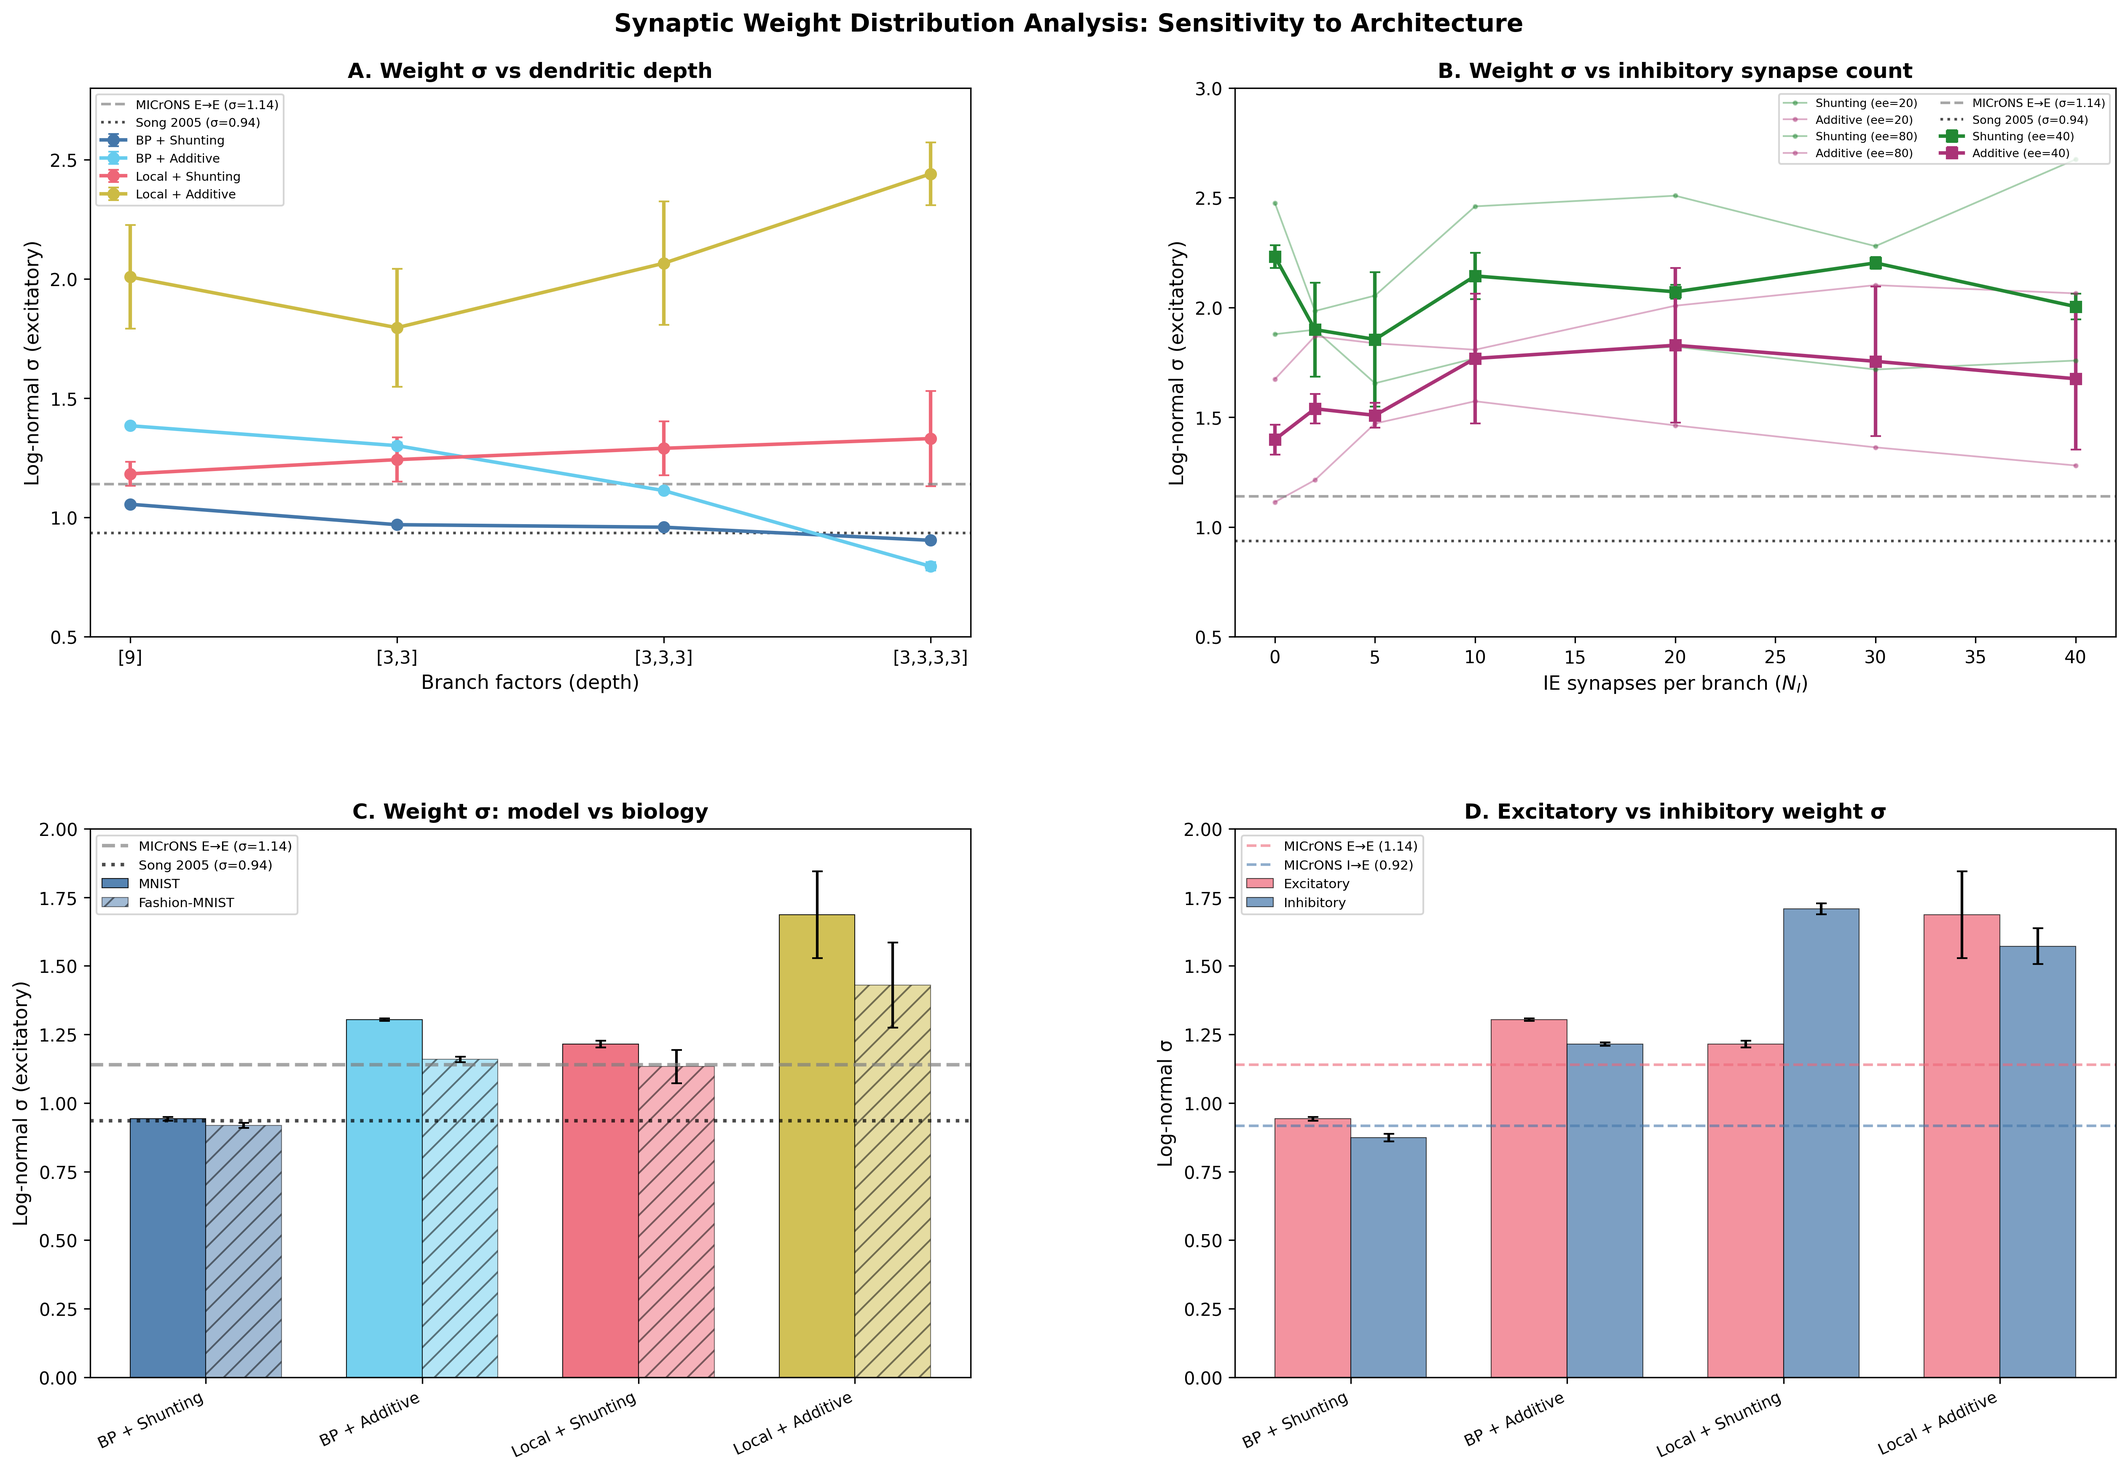
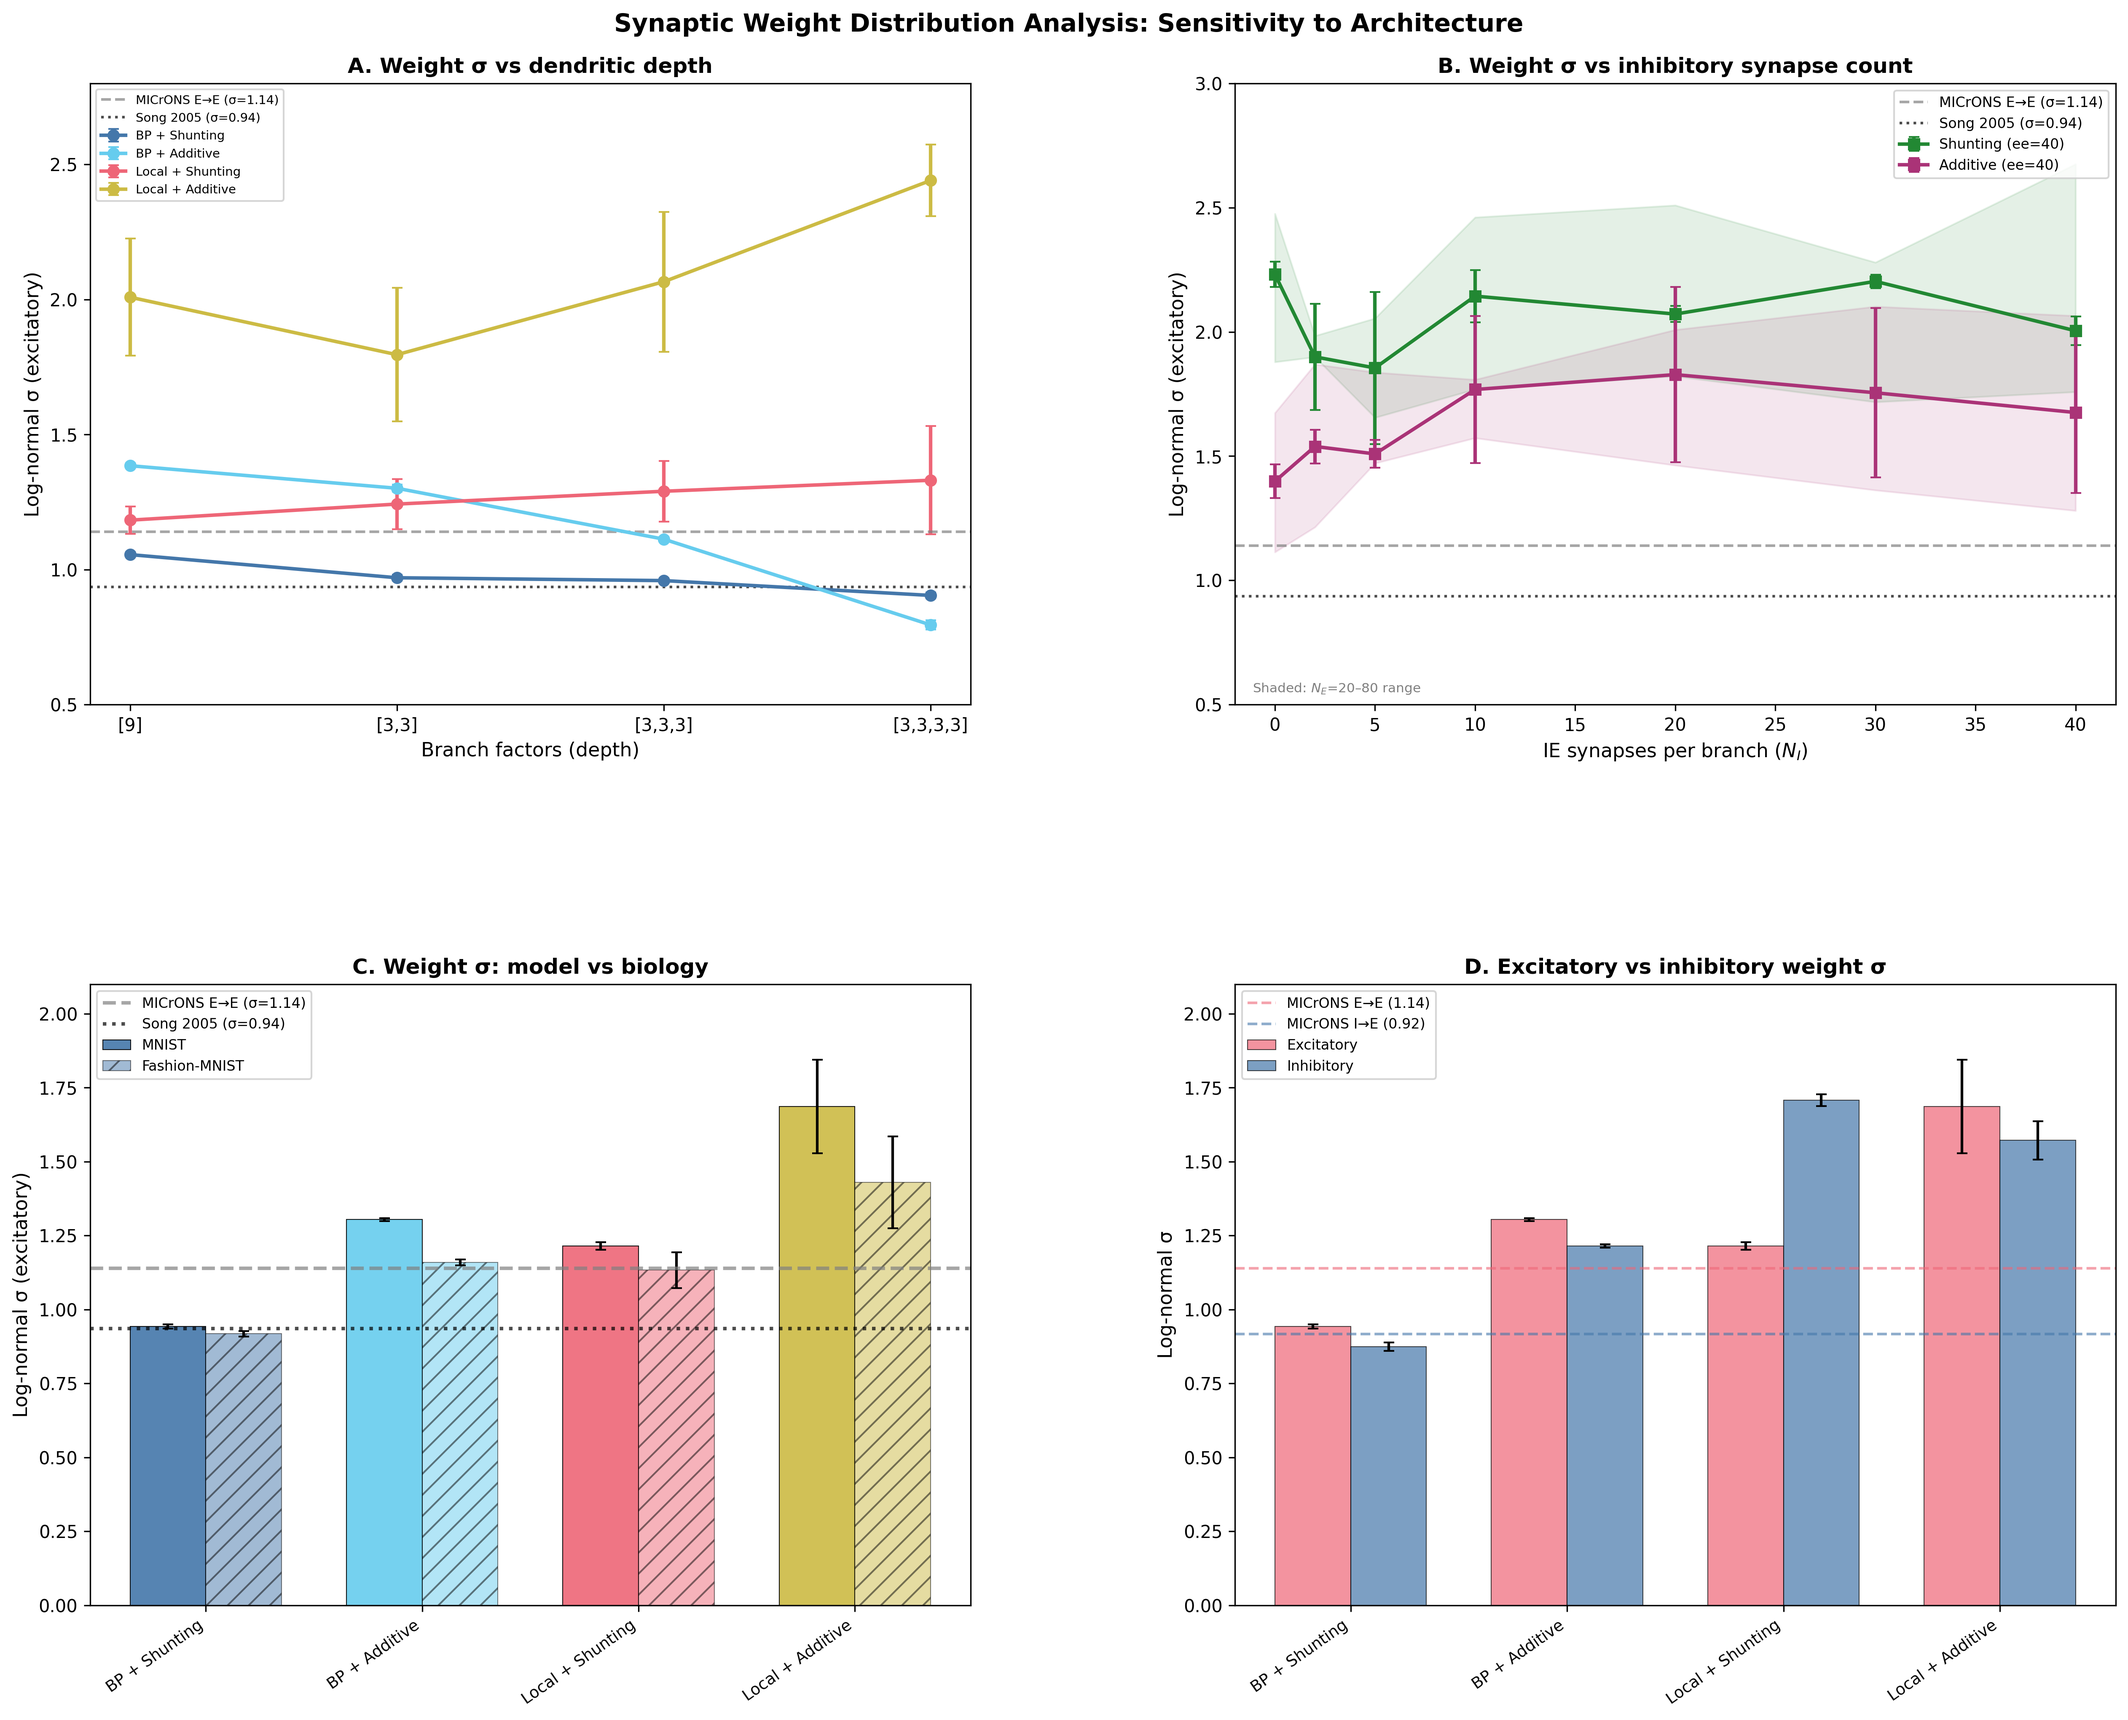
update figure 1

diff --git a/scripts/figure_weight_sensitivity.py b/scripts/figure_weight_sensitivity.py
@@ -80,9 +80,9 @@ def main():
     ei_data = load_ei_synapse_data()
     microns = load_microns_data()
 
-    fig = plt.figure(figsize=(18, 12))
-    gs = gridspec.GridSpec(2, 2, hspace=0.35, wspace=0.30,
-                           left=0.07, right=0.96, top=0.93, bottom=0.08)
+    fig = plt.figure(figsize=(18, 14))
+    gs = gridspec.GridSpec(2, 2, hspace=0.45, wspace=0.30,
+                           left=0.07, right=0.96, top=0.94, bottom=0.08)
 
     # ── Panel A: σ vs depth ──
     ax_a = fig.add_subplot(gs[0, 0])
@@ -146,18 +146,23 @@ def main():
         ax_b.errorbar(ie_values, means, yerr=stds, marker="s", color=color,
                       label=f"{label} (ee=40)", capsize=3, linewidth=2, markersize=6)
 
-    # Also plot ee=20 and ee=80 as lighter lines
-    for ee, alpha in [(20, 0.4), (80, 0.4)]:
-        for core_type in ["dendritic_shunting", "dendritic_additive"]:
-            means = []
-            for ie in ie_values:
-                key = f"{core_type}_ee{ee}_ie{ie}"
-                entry = ei_data["excitatory_sigma"].get(key, {})
-                means.append(entry["mean"] if entry else np.nan)
-            color = COLORS.get(core_type, "gray")
-            label_ct = LABELS.get(core_type, core_type)
-            ax_b.plot(ie_values, means, marker=".", color=color, alpha=alpha,
-                      linewidth=1, markersize=4, label=f"{label_ct} (ee={ee})")
+    # Also plot ee=20 and ee=80 as lighter shaded bands
+    for core_type in ["dendritic_shunting", "dendritic_additive"]:
+        lo_means, hi_means = [], []
+        for ie in ie_values:
+            lo_entry = ei_data["excitatory_sigma"].get(f"{core_type}_ee20_ie{ie}", {})
+            hi_entry = ei_data["excitatory_sigma"].get(f"{core_type}_ee80_ie{ie}", {})
+            lo_means.append(lo_entry["mean"] if lo_entry else np.nan)
+            hi_means.append(hi_entry["mean"] if hi_entry else np.nan)
+        color = COLORS.get(core_type, "gray")
+        lo_arr = np.array(lo_means)
+        hi_arr = np.array(hi_means)
+        valid = ~(np.isnan(lo_arr) | np.isnan(hi_arr))
+        ie_arr = np.array(ie_values)
+        ax_b.fill_between(ie_arr[valid],
+                          np.minimum(lo_arr[valid], hi_arr[valid]),
+                          np.maximum(lo_arr[valid], hi_arr[valid]),
+                          color=color, alpha=0.12)
 
     ax_b.axhline(MICRONS_EE_SIGMA, color="gray", ls="--", lw=1.5, alpha=0.7,
                  label=f"MICrONS E→E (σ={MICRONS_EE_SIGMA:.2f})")
@@ -167,8 +172,10 @@ def main():
     ax_b.set_xlabel("IE synapses per branch ($N_I$)", fontsize=11)
     ax_b.set_ylabel("Log-normal σ (excitatory)", fontsize=11)
     ax_b.set_title("B. Weight σ vs inhibitory synapse count", fontsize=12, fontweight="bold")
-    ax_b.legend(fontsize=6.5, loc="upper right", ncol=2)
+    ax_b.legend(fontsize=8, loc="upper right")
     ax_b.set_ylim(0.5, 3.0)
+    ax_b.annotate("Shaded: $N_E$=20–80 range", xy=(0.02, 0.02),
+                  xycoords="axes fraction", fontsize=7.5, color="gray")
 
     # ── Panel C: Main bar chart (clean 2×2 + biology) ──
     ax_c = fig.add_subplot(gs[1, 0])
@@ -224,11 +231,11 @@ def main():
 
     cond_labels = [LABELS[c] for c in cond_order]
     ax_c.set_xticks(x_c)
-    ax_c.set_xticklabels(cond_labels, rotation=25, ha="right", fontsize=9)
+    ax_c.set_xticklabels(cond_labels, rotation=35, ha="right", fontsize=9)
     ax_c.set_ylabel("Log-normal σ (excitatory)", fontsize=11)
     ax_c.set_title("C. Weight σ: model vs biology", fontsize=12, fontweight="bold")
-    ax_c.legend(fontsize=7.5, loc="upper left")
-    ax_c.set_ylim(0, 2.0)
+    ax_c.legend(fontsize=8, loc="upper left")
+    ax_c.set_ylim(0, 2.1)
 
     # ── Panel D: E vs I comparison ──
     ax_d = fig.add_subplot(gs[1, 1])
@@ -263,11 +270,11 @@ def main():
                  label=f"MICrONS I→E ({MICRONS_IE_SIGMA:.2f})")
 
     ax_d.set_xticks(x_d)
-    ax_d.set_xticklabels(cond_labels, rotation=25, ha="right", fontsize=9)
+    ax_d.set_xticklabels(cond_labels, rotation=35, ha="right", fontsize=9)
     ax_d.set_ylabel("Log-normal σ", fontsize=11)
     ax_d.set_title("D. Excitatory vs inhibitory weight σ", fontsize=12, fontweight="bold")
-    ax_d.legend(fontsize=7.5, loc="upper left")
-    ax_d.set_ylim(0, 2.0)
+    ax_d.legend(fontsize=8, loc="upper left")
+    ax_d.set_ylim(0, 2.1)
 
     fig.suptitle(
         "Synaptic Weight Distribution Analysis: Sensitivity to Architecture",
